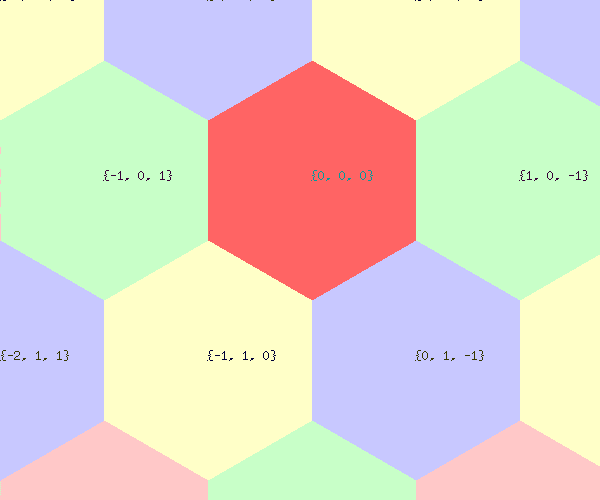
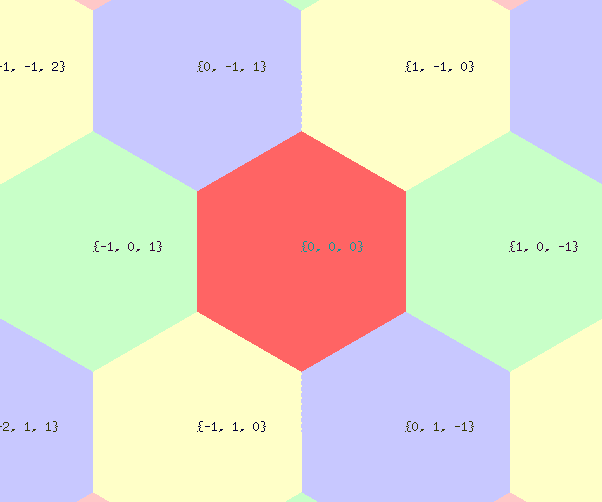
center is better

diff --git a/draw/draw.go b/draw/draw.go
@@ -89,8 +89,8 @@ func NewCamera(imageLenX int, imageLenY int, zoom float64, center pos.Hex) Camer
 
 // ScreenToHex converts camera coordinates to hex coordinates
 func (c Camera) ScreenToHex(x, y int) pos.HexFractional {
-	xM := (float64(x) / c.hWidth) + c.centerX
-	xY := (float64(y) / c.hWidth) + c.centerY
+	xM := (float64(x-c.imageLenX/2) / c.hWidth) + c.centerX
+	xY := (float64(y-c.imageLenY/2) / c.hWidth) + c.centerY
 	return pos.HexFractionalFromCartesian(xM, xY)
 }
 
@@ -98,7 +98,7 @@ func (c Camera) ScreenToHex(x, y int) pos.HexFractional {
 // returned value may be out of bounds.
 func (c Camera) HexToScreen(p pos.HexFractional) (x, y int) {
 	hx, hy := p.ToCartesian()
-	return int((hx - c.centerX) * c.hWidth), int((hy - c.centerY) * c.hWidth)
+	return int((hx-c.centerX)*c.hWidth) + c.imageLenX/2, int((hy-c.centerY)*c.hWidth) + c.imageLenY/2
 }
 
 // Render draws a hex grid.

diff --git a/draw/draw_test.go b/draw/draw_test.go
@@ -12,7 +12,7 @@ import (
 
 func TestDraw(t *testing.T) {
 	dd := draw.DefaultDecorator{}
-	cc := draw.NewCamera(600, 500, 0.2, pos.Hex{Q: -1, R: -1})
+	cc := draw.NewCamera(600, 500, 0.2, pos.Origin())
 
 	img := cc.Render(dd)
 
